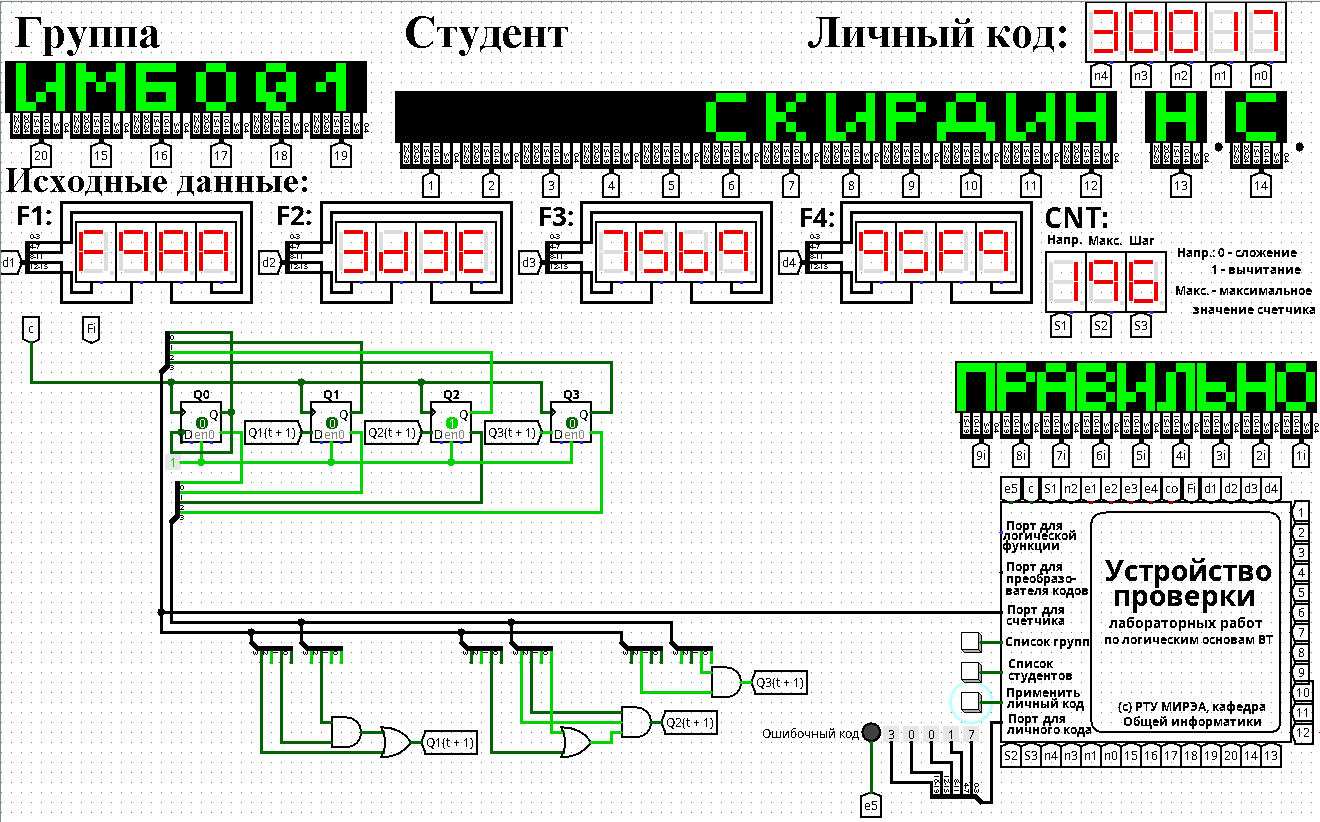
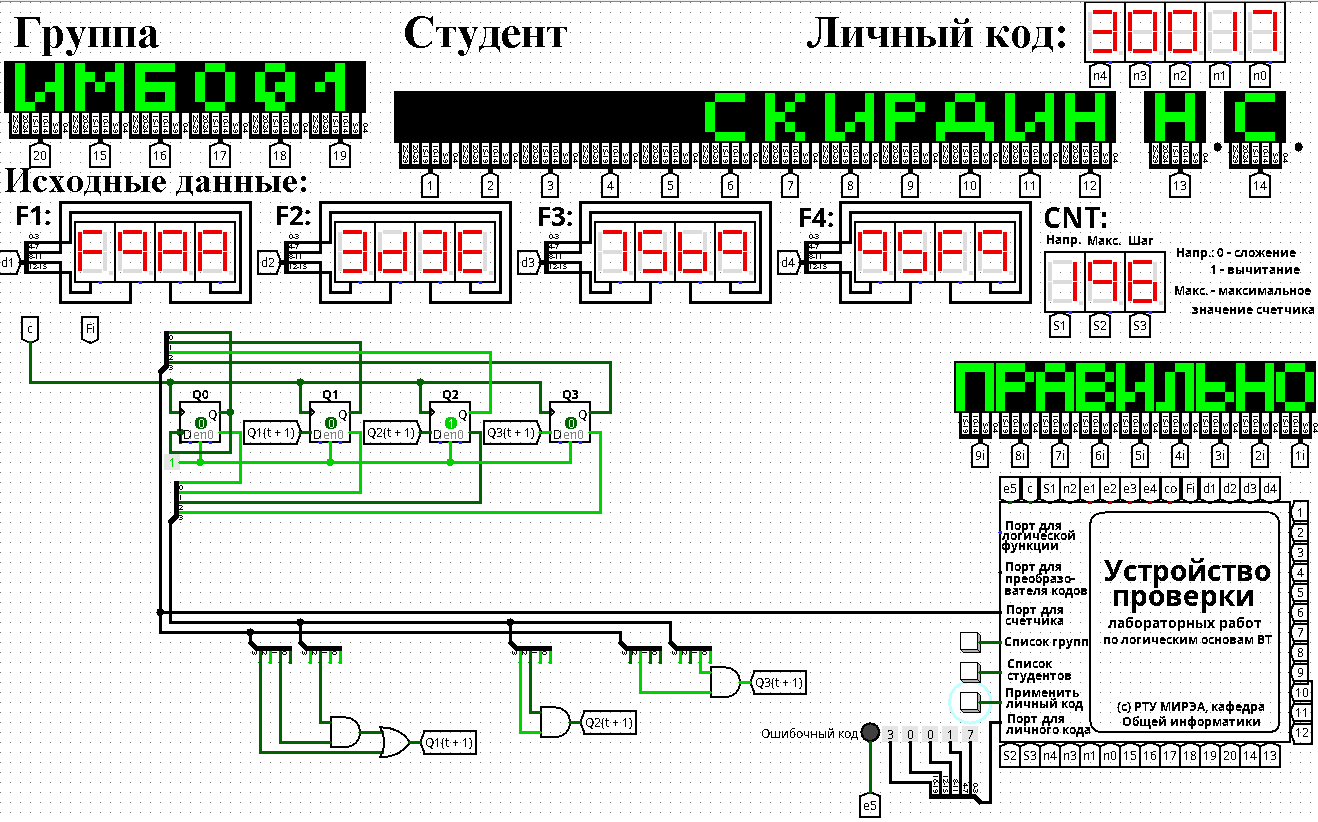
Fix typo in transitions table

diff --git a/informatics/practices/pr11/main.tex b/informatics/practices/pr11/main.tex
@@ -182,7 +182,7 @@
 		\hline
 		0 & 0 & 0 & 0 & 0 & 1 & 0 & 0 \\
 		\hline
-		0 & 0 & 0 & 1 & 0 & 0 & 0 & 1 \\
+		0 & 0 & 0 & 1 & 0 & 1 & 0 & 1 \\
 		\hline
 		0 & 0 & 1 & 0 & 0 & 1 & 1 & 0 \\
 		\hline
@@ -246,7 +246,7 @@
 	Q_3(t + 1)_\textup{МДНФ} = Q_2(t) \cdot \overline{Q_1(t)}
 \end{align}
 
-По такой же методике рассуждений рассмотрим функцию $Q_2(t + 1)$. Из \cref{fig:map-mdnf-q2} видно, что МДНФ $Q_2(t + 1)$ будет описана при помощи $3 + 2 = 5$ переменных либо их отрицаний.
+По такой же методике рассуждений рассмотрим функцию $Q_2(t + 1)$. Из \cref{fig:map-mdnf-q2} видно, что МДНФ $Q_2(t + 1)$ будет описана при помощи 2 переменных либо их отрицаний.
 
 \begin{figure}[H]
 	\caption{Карта Карно для МДНФ функции $Q_2(t + 1)$}
@@ -254,7 +254,7 @@
 	\includegraphics[width=0.5\textwidth]{map-mdnf-q2-selected}
 \end{figure}
 
-Теперь проделаем аналогичную операцию для МКНФ этой же функции. Из \cref{fig:map-mknf-q2} видно, что МКНФ $Q_2(t + 1)$ будет описана при помощи $1 + 1 + 2 = 4$ переменных либо их отрицаний.
+Теперь проделаем аналогичную операцию для МКНФ этой же функции. Из \cref{fig:map-mknf-q2} видно, что МКНФ $Q_2(t + 1)$ будет описана при помощи $1 + 1 = 2$ переменных либо их отрицаний.
 
 \begin{figure}[H]
 	\caption{Карта Карно для МКНФ функции $Q_2(t + 1)$}
@@ -265,7 +265,7 @@
 Запишем МКНФ для $Q_2(t + 1)$ (\cref{equ:q2}).
 \begin{align}
 	\label{equ:q2}
-	Q_2(t + 1)_\textup{МКНФ} = \overline{Q_2(t)} \cdot \overline{Q_3(t)} \cdot (Q_1(t) + \overline{Q_0(t)})
+	Q_2(t + 1)_\textup{МКНФ} = \overline{Q_2(t)} \cdot \overline{Q_3(t)}
 \end{align}
 
 Переходим к рассмотрению $Q_1(t + 1)$. Из \cref{fig:map-mdnf-q1} видно, что МДНФ $Q_1(t + 1)$ будет описана при помощи $1 + 2 = 3$ переменных либо их отрицаний.
